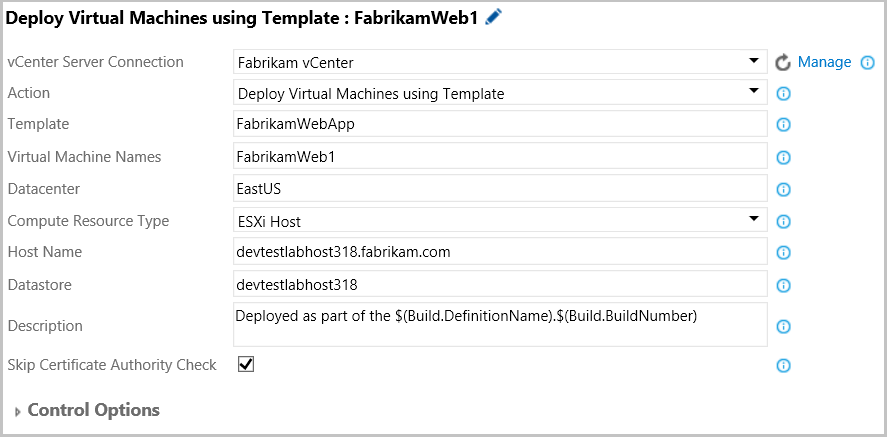
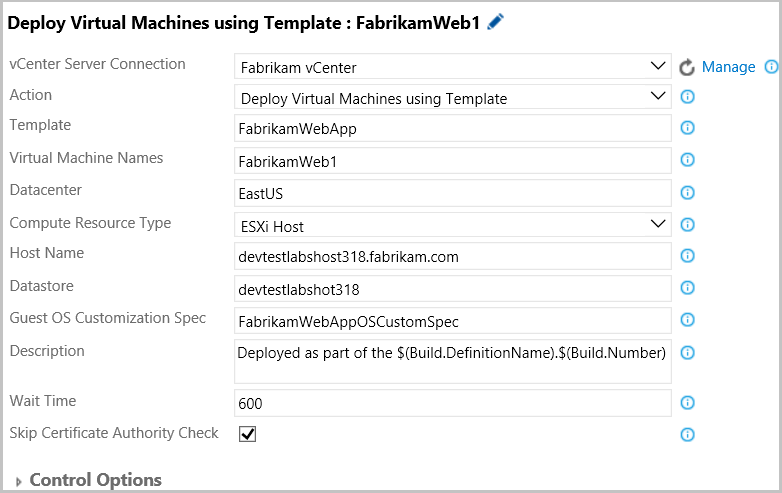
Updated the readme with new feature details

diff --git a/src/VMWare.md b/src/VMWare.md
@@ -2,7 +2,7 @@
 
 Connect to a VMware vCenter Server™ from Visual Studio Team Services or Team Foundation Server to provision, start, stop, or snapshot virtual machines. Following are the available actions.
 
- - Deploy virtual machines using template and Delete virtual machines. 
+ - Deploy virtual machines using template and Delete virtual machines.
  - Power-On, Power-Off, and Shutdown.
  - Take snapshot, Revert snapshot, and Delete snapshot of virtual machines.
 
@@ -72,6 +72,7 @@ Visual Studio Team Services or Team Foundation Server requires a service connect
     * **Datacenter**: Enter the name of the **Datacenter**, where the virtual machines are located.
     * **Snapshot Name**: Enter the name of the snapshot. Note that for the revert and delete snapshot actions, the snapshot should exist for the virtual machines, else the task will error out.
     * **Description**: Optionally, provide a description for the **Take Snapshot of Virtual Machines** action, like $(Build.DefinitionName).$(Build.BuildNumber). This can be used to track the particular run of the build or release definition that created the snapshot.
+    * **Wait Time**: Specify wait time in seconds for the Virtual Machine to be in deployment ready state.
     * **Skip Certificate Authority Check**: If the vCenter Server's certificate is self-signed then select this option to skip the validation of the certificate from a trusted certificate authority. To check if the self-signed certificate is installed on the vCenter Server open the VMware vSphere® Web Client in a Web browser and look for certificate error screen. The vSphere Web Client URL will be similar to https://devtestlab325.fabrikam.com/vsphere-client/. For best practices regarding the vCenter Server certificates see the [website](http://aka.ms/vcentercertificate).     
 
  ![Snapshot VMware VMs](Images/SnapshotTask.png)
@@ -83,6 +84,7 @@ Visual Studio Team Services or Team Foundation Server requires a service connect
    * **Action**: Select any one of the snapshot actions from amongst **Power on Virtual Machines**, or **Delete Virtual Machines**.
    * **Virtual Machines Name**: Provide the names of one or more virtual machines. For multiple machines use a comma separated list, like VM1, VM2, VM3.
    * **Datacenter**: Enter the name of the **Datacenter**, where the virtual machines are located.
+   * **Wait Time**: Specify wait time in seconds for the Virtual Machine to be in deployment ready state.
    * **Skip Certificate Authority Check**: If the vCenter Server's certificate is self-signed then select this option to skip the validation of the certificate from a trusted certificate authority.
 
   ![Power On or Delete VMware VMs](Images/PowerOnVMs.png)
@@ -100,10 +102,17 @@ Visual Studio Team Services or Team Foundation Server requires a service connect
    * **Compute Resource Type**: Select from the **VMware ESXi™ Host**, **Cluster**, or **Resource Pool**, where the virtual machines will be deployed.
    * **Host Name/Cluster Name/Resource Pool Name**: Enter the name of the ESXi Host, or the Cluster, or the Resource Pool.
    * **Datastore**: Enter the name of the datastore for storing the virtual machines configuration and disk files.
+   * **Guest OS Customization Spec**: Enter the name of the Guest OS Customization Specification.
    * **Description**: Optionally, provide a description, like VMs for Fabrikam App Testing.
+   * **Wait Time**: Specify wait time in seconds for the Virtual Machine to be in deployment ready state.
    * **Skip Certificate Authority Check**: If the vCenter Server's certificate is self-signed then select this option to skip the validation of the certificate from a trusted certificate authority.
 
   ![Create VMs from Template](Images/DeployVMUsingTemplate.png)
+
+1.a **Note on Guest OS customization spec**:
+   * Recommended to set the VM name as the NetBIOS name so that you can refer to the machine using VM name in deployment tasks.
+
+  ![Guest OS Customization Spec](Images/OSCustomSpec.png)
 
 ### **Contact Information**
 
@@ -119,5 +128,6 @@ For further information or to resolve issues, contact RM_Customer_Queries at Mic
 
 | Version     | Date    | Details |
 | --------|---------|-------|
+| 1.0.0  | 05/24/2016   | Added support for os customization spec, few improvements for deployment readiness    |
 | 0.2.0  | 03/02/2016   | Added support for Shutdown, Power-Off virtual machines & bug fixes.    |
 | 0.1.0 | 02/17/2016 | Added support for Create VM, Snapshot actions, and Delete virtual machines.    |
